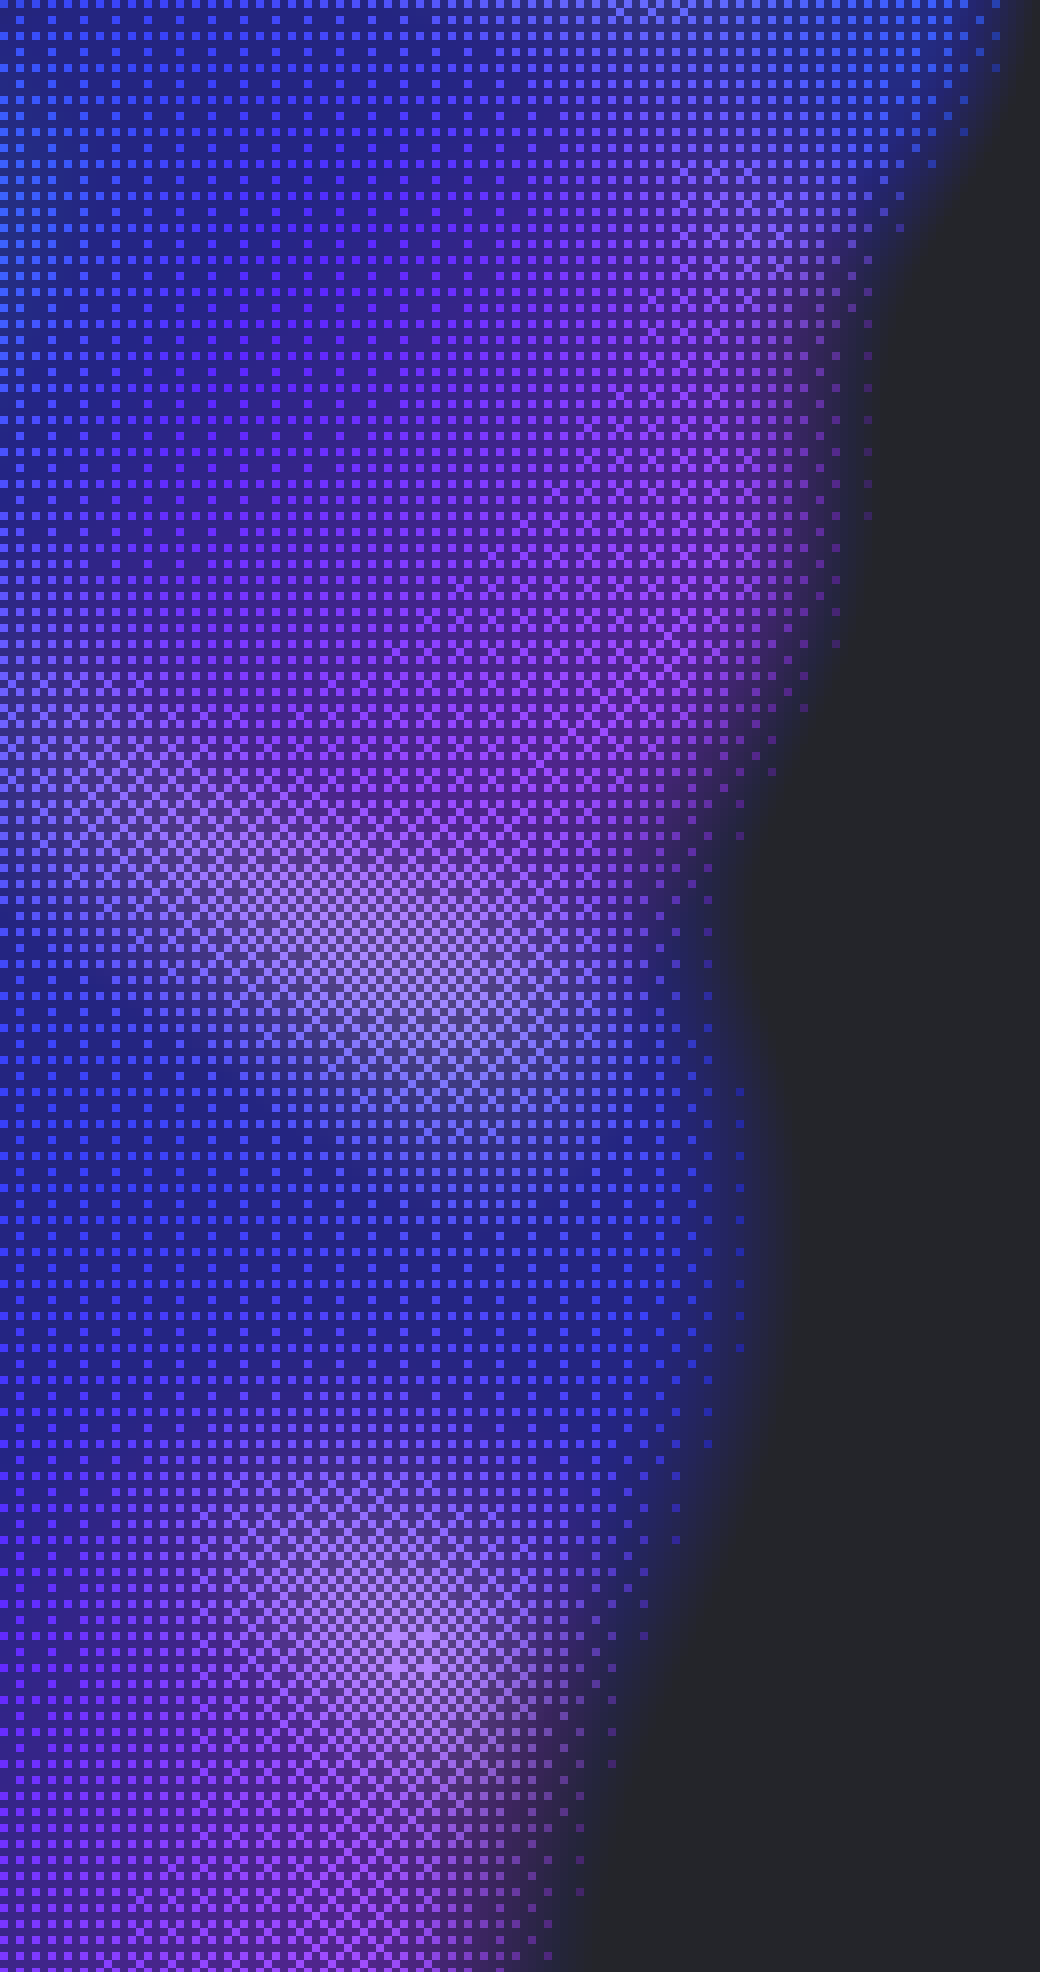
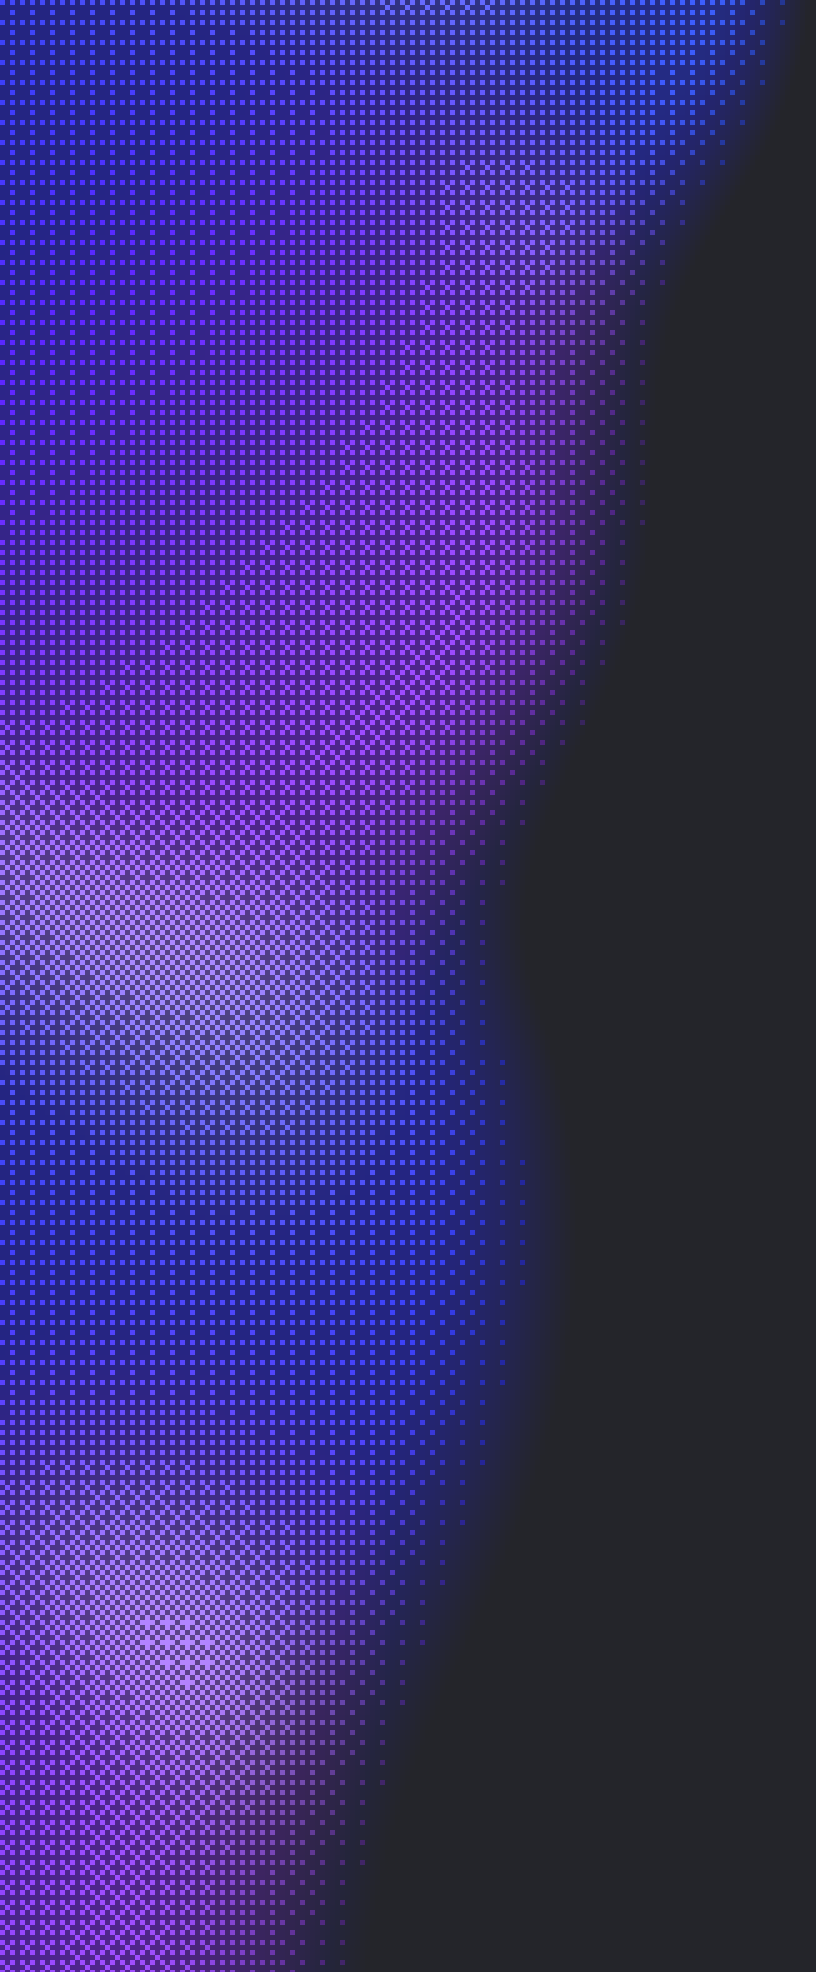
feat(web): Westworld threads keep one blob dither, further left with finer dots
Drop the mirrored right-edge strip and its asset. Move every blob centre of
the left strip 0.12 further left so the blobs reach about 43% of the card
instead of a third, and take the Dither's pixel size from 8 to 5. Same bake:
the real WebGPU library, lightened onto the #24252a card, cropped to the
reach of the blobs (79 KB, truecolour).

diff --git a/apps/web/src/theme.custom.westworld.css b/apps/web/src/theme.custom.westworld.css
@@ -71,18 +71,18 @@
    both at z-index -1 inside the isolated card.
 
    ::before is the started thread: a #24252a card, a step below the #26272c
-   surface, with a blob dither rising from both side edges — Noey's Shaders
+   surface, with a blob dither rising from its left edge — Noey's Shaders
    design 4737833 (four static Blobs in #2e37e6→#1877f2 and #a644fc→#5218f2
-   under an 8px source-colour Dither, threshold 0.7, spread 0.5) as drawn
-   on the left and mirrored (x → 1 − x) on the right; the Blob shapes depend
-   on their position, so the two sides differ. Each side was rendered with
-   the real WebGPU library in headful Chrome at 2× on a transparent base and
-   lightened onto the card colour — the Dither's dark cells are black, so a
-   normal composite would smear black over the card — then cropped to the
-   520px / 521px the blobs reach. They paint as `left top` and `right top`
-   layers at `auto 100%`, so both scale with the card height and the middle
-   stays the flat colour. Truecolour on purpose: a 256-colour palette bands
-   the glow around the dots.
+   under a source-colour Dither, threshold 0.7, spread 0.5) with every blob
+   centre moved 0.12 further left and the Dither's pixel size taken from 14
+   to 5, so the blobs reach about 43% of the card and the dots are fine.
+   Rendered with the real WebGPU library in headful Chrome at 2× on a
+   transparent base and lightened onto the card colour — the Dither's dark
+   cells are black, so a normal composite would smear black over the card —
+   then cropped to the 408px the blobs reach. It paints as a `left top /
+   auto 100%` layer, so it scales with the card height and the rest of the
+   card stays the flat colour. Truecolour on purpose: a 256-colour palette
+   bands the glow around the dots.
 
    ::after is the new-agent draft (Figma 416:8420, layer 421:12528,
    "doloresbluedither4"): the blue portrait at full strength under a
@@ -104,8 +104,7 @@
 
    westworld-hero.png is the Figma export quantized to 256 colours (octree),
    171 KB against 1.3 MB (no channel more than 14 levels off);
-   westworld-thread.png is the 1040×1972 left blob strip, truecolour, 65 KB;
-   westworld-thread-right.png the 1042×1972 right one, 56 KB. */
+   westworld-thread.png is the 816×1972 left blob strip, truecolour, 79 KB. */
 :root[data-fork="noahhendrickson-t3code"].dark[data-fork-theme="cool-dark"]
   [data-chat-workspace-drop-target="true"]::before {
   content: "";
@@ -115,7 +114,6 @@
   pointer-events: none;
   background:
     url("./custom/assets/westworld-thread.png") left top / auto 100% no-repeat,
-    url("./custom/assets/westworld-thread-right.png") right top / auto 100% no-repeat,
     #24252a;
   opacity: 1;
   transition: opacity 400ms cubic-bezier(0.32, 0.72, 0, 1);

diff --git a/apps/web/src/__fork_guards__/forkCoolDarkTheme.test.ts b/apps/web/src/__fork_guards__/forkCoolDarkTheme.test.ts
@@ -336,10 +336,9 @@ describe("fork guard: fork-cool-dark-theme", () => {
     expect(blockFor(theme, COOL_STAGE)).toContain("--fork-pill-border: #333333");
   });
 
-  it("paints the dark card with the blob dither on both edges behind started threads", () => {
-    // The ::before is the started-thread fill: the #24252a card with the two
-    // blob-dither strips (Shaders design 4737833, as drawn and mirrored)
-    // anchored to its left and right edges. The wrapper it paints on must already be
+  it("paints the dark card with the blob dither on its left edge behind started threads", () => {
+    // The ::before is the started-thread fill: the #24252a card with the
+    // blob-dither strip (Shaders design 4737833) anchored to its left edge. The wrapper it paints on must already be
     // positioned in ChatView, and must be isolated so z-index -1 stays above
     // the root fill.
     const chatView = readSibling("../components/ChatView.tsx");
@@ -357,7 +356,7 @@ describe("fork guard: fork-cool-dark-theme", () => {
           new URL("../custom/assets/westworld-thread-right.png", import.meta.url),
         ),
       ),
-    ).toBe(true);
+    ).toBe(false);
     expect(
       NodeFS.existsSync(
         NodeURL.fileURLToPath(new URL("../custom/assets/westworld-stage.png", import.meta.url)),
@@ -376,9 +375,7 @@ describe("fork guard: fork-cool-dark-theme", () => {
     expect(art?.body).toContain(
       'url("./custom/assets/westworld-thread.png") left top / auto 100% no-repeat',
     );
-    expect(art?.body).toContain(
-      'url("./custom/assets/westworld-thread-right.png") right top / auto 100% no-repeat',
-    );
+    expect(theme).not.toContain("westworld-thread-right.png");
     expect(art?.body).toMatch(/,\s*#24252a;/u);
     expect(art?.body).toContain("z-index: -1");
     expect(art?.body).toMatch(/opacity:\s*1;/u);

diff --git a/.fork/notes/RELEASE-NOTES-PENDING.md b/.fork/notes/RELEASE-NOTES-PENDING.md
@@ -4,4 +4,4 @@ Lines to fold into the next fork release's notes, then delete from here.
 Each entry names the sync or PR that created the obligation.
 
 - fix(web): background preview guests no longer show through the Glass sidebar while an agent drives them (fork-glass-preview-parking, fixes a v0.1.18 regression from upstream #9001)
-- feat(web): Cool Dark is now Westworld and Cool Darker is now Glass. Westworld follows Figma t3-fork 416:7408 — one #26272c surface for sidebar, header and stage, the chat column framed as an 8px-inset stage card, a blue dither portrait under a blue wash behind a dark-glass composer on a new agent, crossfading to a #24252a card with a blue-violet blob dither rising from both side edges behind a white-glass composer once the thread starts, with the working status and the sidebar mark in Westworld's blue. Stored preferences keep their old ids, so nothing resets (fork-cool-dark-theme, fork-cool-darker-theme)
+- feat(web): Cool Dark is now Westworld and Cool Darker is now Glass. Westworld follows Figma t3-fork 416:7408 — one #26272c surface for sidebar, header and stage, the chat column framed as an 8px-inset stage card, a blue dither portrait under a blue wash behind a dark-glass composer on a new agent, crossfading to a #24252a card with a blue-violet blob dither rising from its left edge behind a white-glass composer once the thread starts, with the working status and the sidebar mark in Westworld's blue. Stored preferences keep their old ids, so nothing resets (fork-cool-dark-theme, fork-cool-darker-theme)
